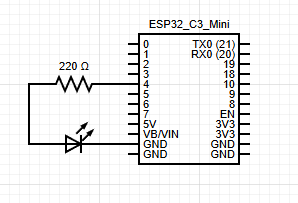
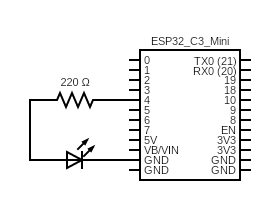
added new image schematics

Changed region(s): [[0.0857, 0.09, 0.9143, 0.93]]

diff --git a/project_3.html b/project_3.html
@@ -416,7 +416,7 @@
 						<div id="schemCollapse1" class="accordion-collapse collapse show"
 							data-bs-parent="#schemAccordian">
 							<div class="accordion-body text-center">
-								<img src='./assets/images/project_4/ops_p3_sa.png' class="pj-schem"
+								<img src='./assets/images/project_4/ops_p3_sa.svg' class="pj-schem"
 									style="max-height: 300px; max-width: 300px;">
 							</div>
 						</div>
@@ -432,7 +432,7 @@
 						<!--Pin to page?-->
 						<div id="schemCollapse2" class="accordion-collapse collapse" data-bs-parent="#schemAccordian">
 							<div class="accordion-body text-center">
-								<img src='./assets/images/project_4/ops_p3_sb.png' class="pj-schem"
+								<img src='./assets/images/project_4/ops_p3_sb.svg' class="pj-schem"
 									style="max-height: 400px; max-width: 400px;">
 							</div>
 						</div>
@@ -448,8 +448,8 @@
 						<!--Pin to page?-->
 						<div id="schemCollapse3" class="accordion-collapse collapse" data-bs-parent="#schemAccordian">
 							<div class="accordion-body text-center">
-								<img src='./assets/images/project_4/ops_p3_sc.png' class="pj-schem"
-									style="max-height: 600px; max-width: 600px;">
+								<img src='./assets/images/project_4/ops_p3_sc.svg' class="pj-schem"
+									style="max-height: 500px; max-width: 500px;">
 							</div>
 						</div>
 					</div>
